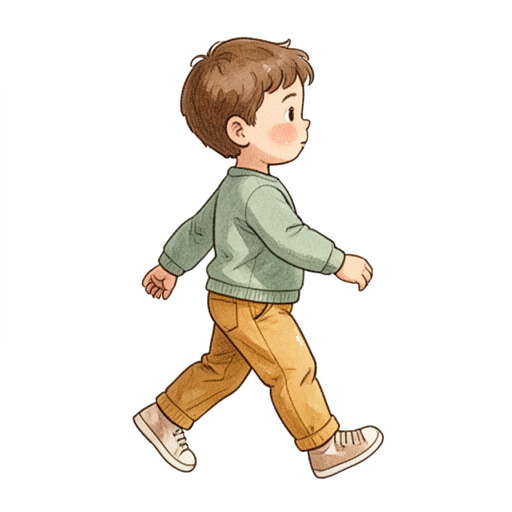
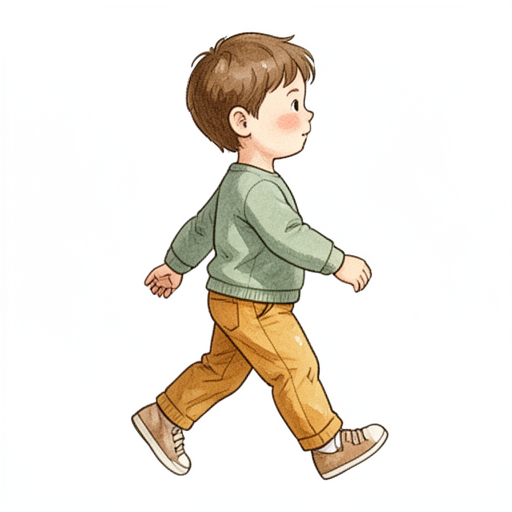
Save generated candidate and queue receipt

diff --git a/data/symbol-white-0.13-arm512/review.html b/data/symbol-white-0.13-arm512/review.html
@@ -1,1 +1,1 @@
-<!doctype html><html lang="sv"><meta charset="utf-8"><title>Bildkandidater</title><style>body{font:16px system-ui;margin:32px;color:#344453;background:white}.cards{display:flex;flex-wrap:wrap;gap:24px}figure{margin:0;width:240px;border:1px solid #ddd;padding:12px}img{width:100%;height:auto}small{color:#666}</style><h1>Bildkandidater</h1><figure><img src="reference.png" alt="Godkänd stilreferens"><figcaption>Stilreferens · se kandidatens metadata för om modellen använder referensbilden som indata.</figcaption></figure><p>Kontrollera handling, händer, borttagning av bakgrund och stil mot referensbilden. Ingen kandidat är publicerad.</p><div class="cards"></div></html>
+<!doctype html><html lang="sv"><meta charset="utf-8"><title>Bildkandidater</title><style>body{font:16px system-ui;margin:32px;color:#344453;background:white}.cards{display:flex;flex-wrap:wrap;gap:24px}figure{margin:0;width:240px;border:1px solid #ddd;padding:12px}img{width:100%;height:auto}small{color:#666}</style><h1>Bildkandidater</h1><figure><img src="reference.png" alt="Godkänd stilreferens"><figcaption>Stilreferens · se kandidatens metadata för om modellen använder referensbilden som indata.</figcaption></figure><p>Kontrollera handling, händer, borttagning av bakgrund och stil mot referensbilden. Ingen kandidat är publicerad.</p><div class="cards"><figure><img src="FSK_90_02.png" alt="gå"><figcaption>gå</figcaption><small>Utkast · granskning krävs</small><details><summary>Före friläggning</summary><img src="raw/FSK_90_02.png" alt="Motivet före bakgrundsborttagning"></details></figure></div></html>
